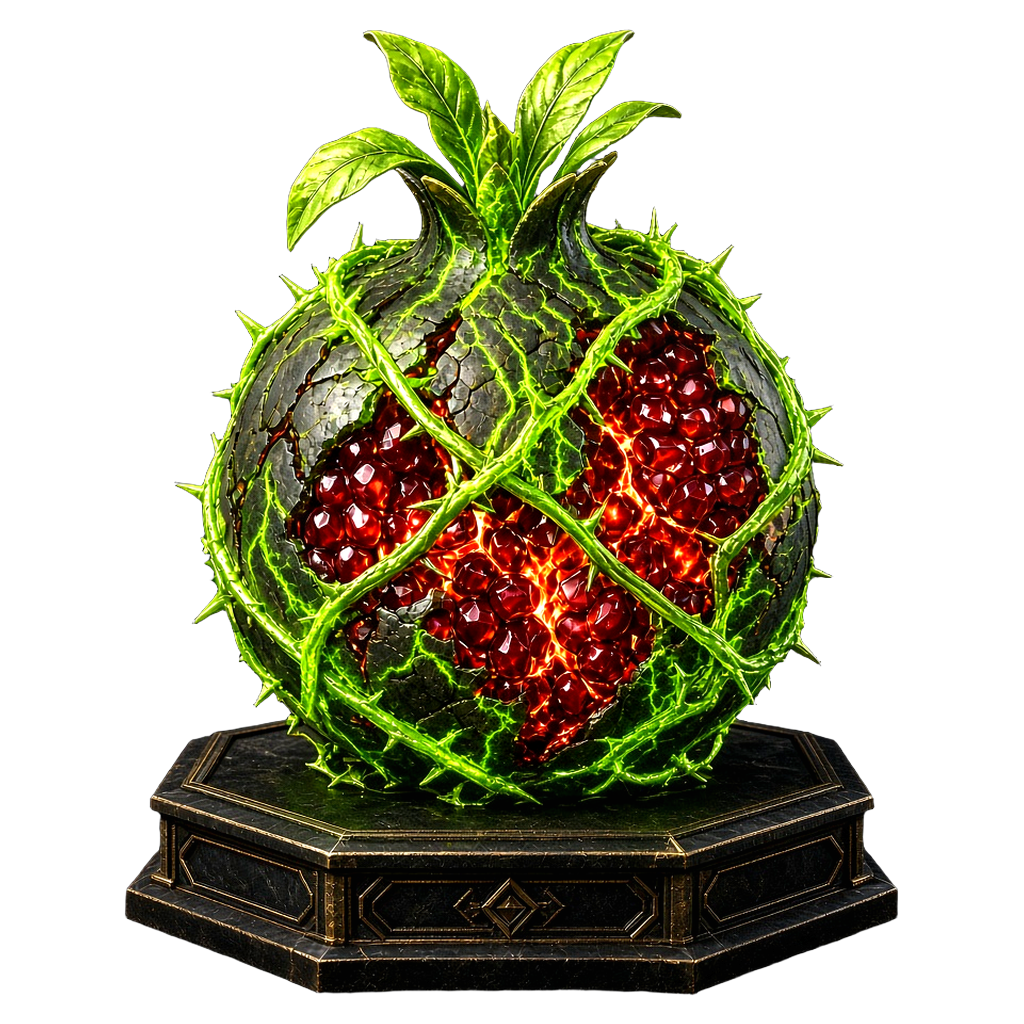
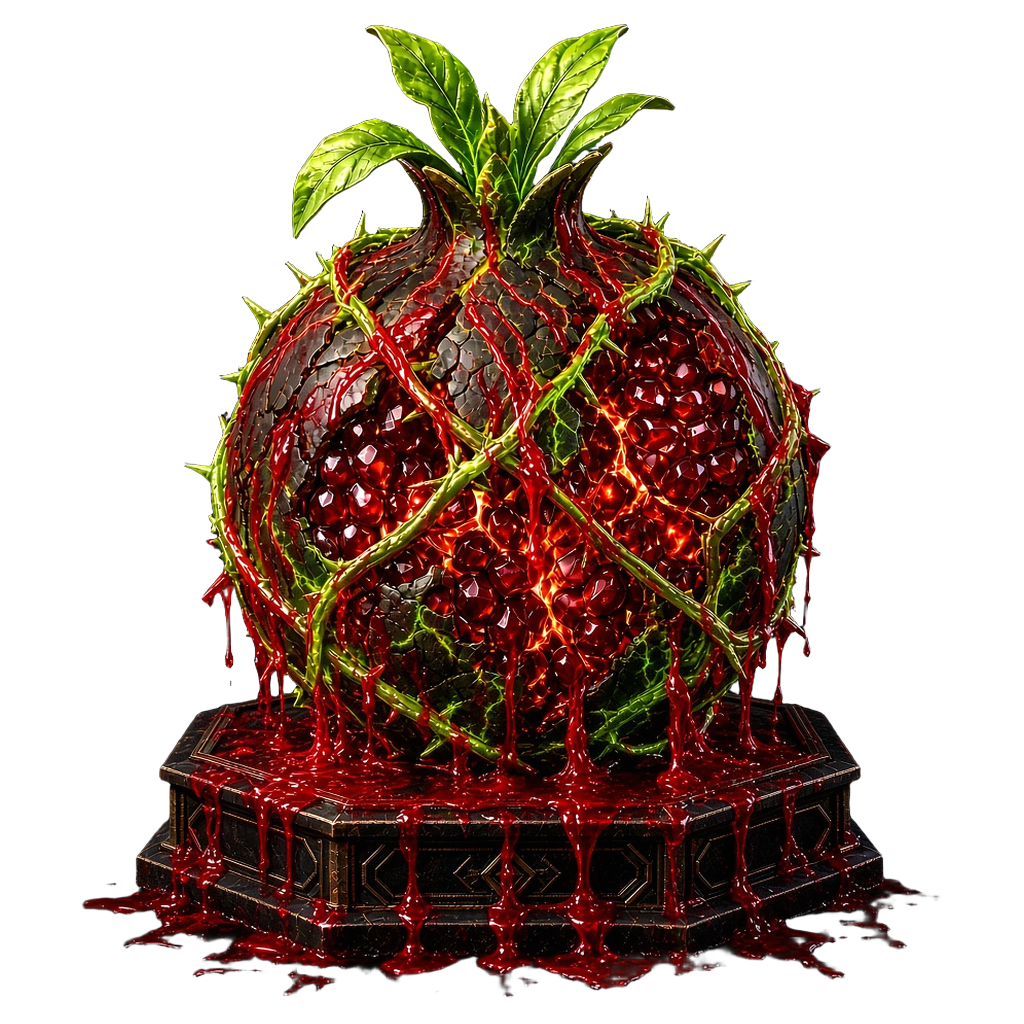
Cover Blood Harvest relic in dripping crimson juice.

diff --git a/src/lib/battlePassSeason2.ts b/src/lib/battlePassSeason2.ts
@@ -257,7 +257,7 @@ export const BP_S2_REWARDS: BpReward[] = [
     preview:
       "Статуэтка за полное прохождение Season 2 — финальная награда на полке профиля",
     hover: "Гранат «Кровавая жатва» · ур. 25 Season 2 Halloween",
-    image: "/bp-halloween/pomegranate-relic-v1-cutout.png?v=2",
+    image: "/bp-halloween/pomegranate-relic-v1-cutout.png?v=3",
   },
 ];
 
@@ -272,7 +272,7 @@ export function s2RewardFullImage(reward: BpReward): string {
   if (reward.kind === "bg") return reward.image || BP_S2_IDLE_ART;
   if (reward.id === "hw2-knife") return "/bp-halloween/knife-hook-v2-cutout.png";
   if (reward.id === "hw2-gun") return "/bp-halloween/weapon-ak-v2-cutout.png";
-  if (reward.id === "hw2-trophy") return "/bp-halloween/pomegranate-relic-v1-cutout.png?v=2";
+  if (reward.id === "hw2-trophy") return "/bp-halloween/pomegranate-relic-v1-cutout.png?v=3";
   if (reward.id === "hw2-nick") return "/bp-halloween/nick-v2-cutout.png";
   return reward.image || BP_S2_IDLE_ART;
 }
@@ -285,7 +285,7 @@ export function s2RewardMileImage(reward: BpReward): string {
   if (reward.kind === "bg") return reward.image || BP_S2_IDLE_ART;
   if (reward.id === "hw2-knife") return "/bp-halloween/knife-hook-v2-cutout.png";
   if (reward.id === "hw2-gun") return "/bp-halloween/weapon-ak-v2-cutout.png";
-  if (reward.id === "hw2-trophy") return "/bp-halloween/pomegranate-relic-v1-cutout.png?v=2";
+  if (reward.id === "hw2-trophy") return "/bp-halloween/pomegranate-relic-v1-cutout.png?v=3";
   if (reward.id === "hw2-nick") return "/bp-halloween/nick-v2-cutout.png";
   return reward.image || BP_S2_IDLE_ART;
 }

diff --git a/src/lib/profileMedals.ts b/src/lib/profileMedals.ts
@@ -62,7 +62,7 @@ const KEECH_HALLOWEEN_TROPHY: ProfileMedalItem = {
   kind: "medal",
   level: 0,
   hover: "Гранат «Кровавая жатва» · Финал Halloween Season 2",
-  icon: "/bp-halloween/pomegranate-relic-v1-cutout.png?v=2",
+  icon: "/bp-halloween/pomegranate-relic-v1-cutout.png?v=3",
   source: "site",
 };
 

diff --git a/docs/CHANGELOG.md b/docs/CHANGELOG.md
@@ -1,3 +1,9 @@
+## v. 1.2.114 — 03.11.2026 · «Кровавая жатва»: в крови
+
+Статуэтка 25 уровня вся в стекающей крови — по гранату, лианам и пьедесталу.
+
+---
+
 ## v. 1.2.113 — 03.11.2026 · «Кровавая жатва»: ярче и с кислотной гнилью
 
 Статуэтка 25 уровня крупнее и ярче: лианы — неоново-зелёные гнилые ветки, красный неон снизу при наведении.
